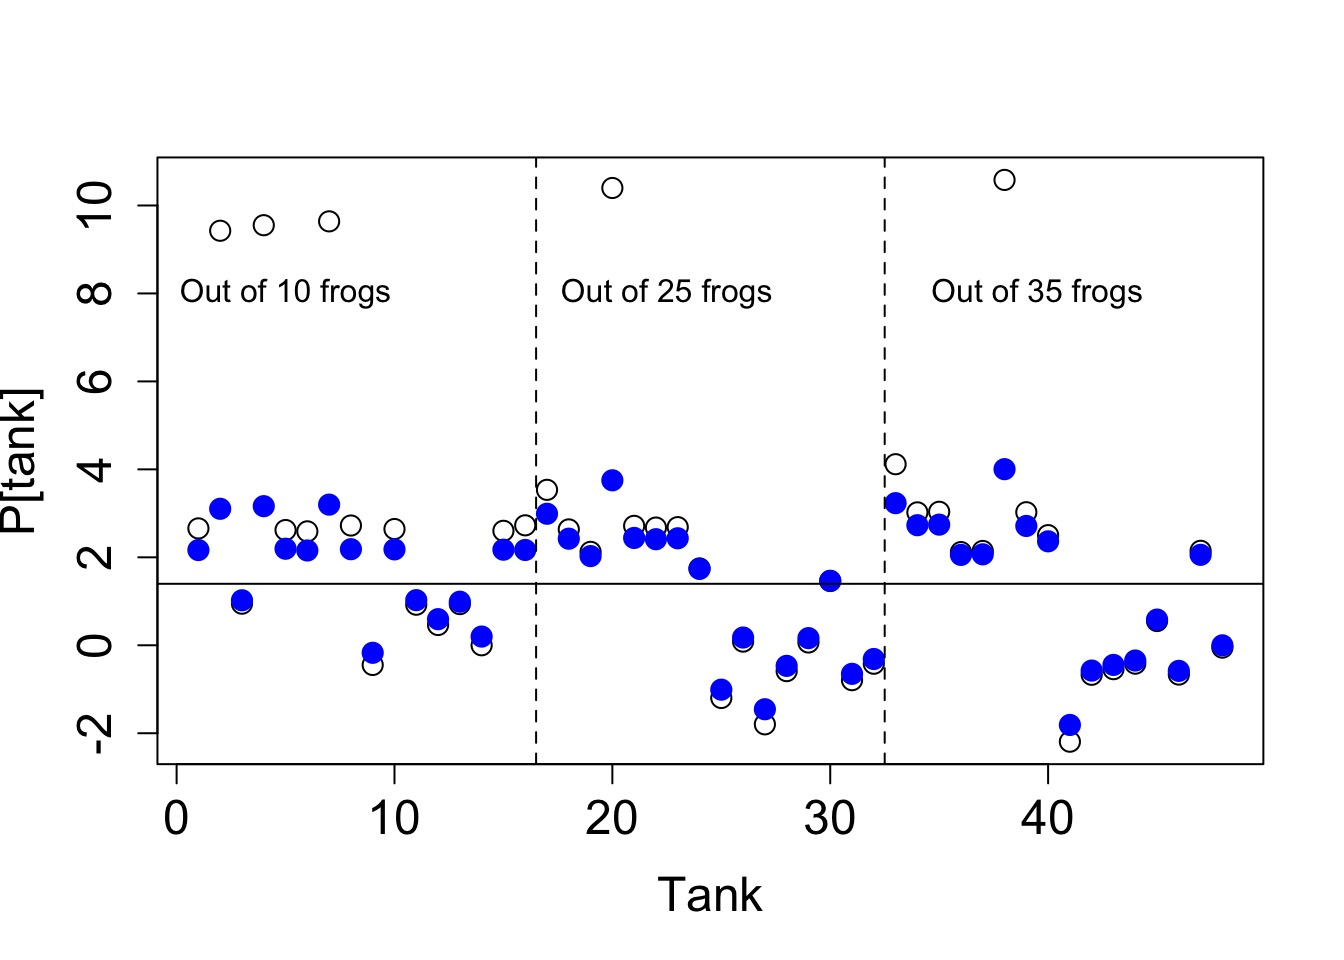
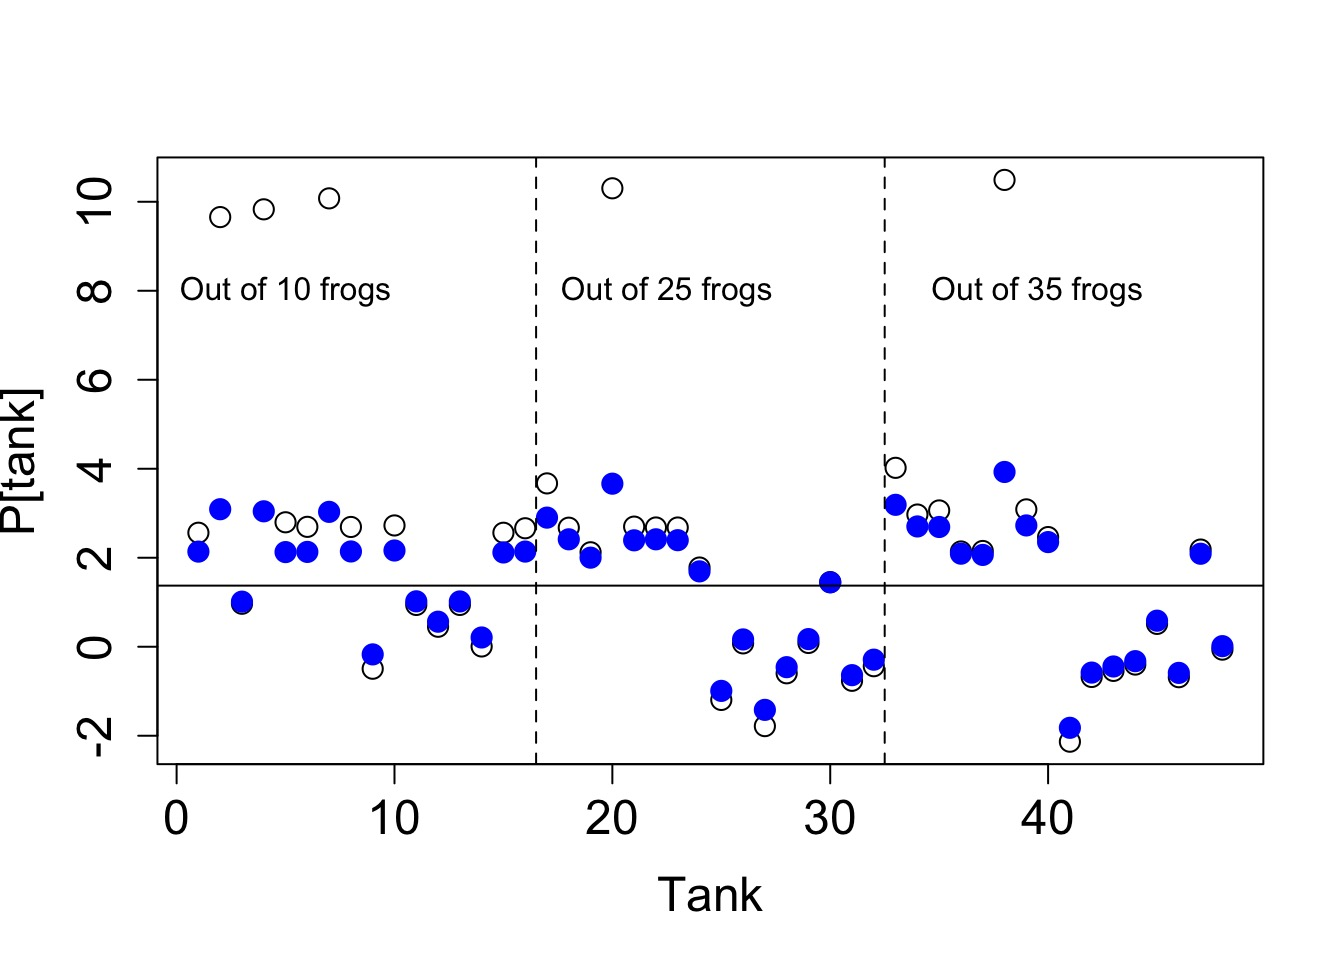
fixing some varying intercept typos

diff --git a/lectures/22_varying_intercept.html b/lectures/22_varying_intercept.html
@@ -290,7 +290,7 @@ fit &lt;-<span class="st"> </span><span class="kw">map2stan</span>(mod_partialpo
 <br />
 
 <div class="fragment">
-<span class="math display">\[p_j \sim dnorm(\widehat{p} , \sigma^2_{tank})\]</span>
+<span class="math display">\[p_j \sim dnorm(\widehat{p} , \sigma_{tank})\]</span>
 </div>
 </section>
 <section id="the-mathy-version" class="slide level2">
@@ -377,9 +377,16 @@ fit_fullpool 1372.0   1.0 360.9      0 25.87 35.12</code></pre>
 <li>Improved fit from partial pooling<br />
 <br />
 </li>
-<li>Big reduction in number of parameters</li>
+<li>Big reduction in number of parameters
+<ul>
+<li>From reducing paramter variance (remember pWAIC definition!)</li>
+</ul></li>
 </ul>
 </div>
+</section>
+<section id="reduced-parameter-variance" class="slide level2">
+<h1>Reduced Parameter Variance</h1>
+<p><img src="22_varying_intercept_files/figure-revealjs/show_p-1.jpeg" width="672" /></p>
 </section>
 <section id="fit-and-overdispersion" class="slide level2">
 <h1>Fit and Overdispersion</h1>
@@ -408,6 +415,39 @@ fit_fullpool 1372.0   1.0 360.9      0 25.87 35.12</code></pre>
 5   Lau Fiji       7400    high          33     5.0
 6  Trobriand       8000    high          19     4.0</code></pre>
 </section>
+<section id="a-typical-model" class="slide level2">
+<h1>A Typical Model</h1>
+<div class="sourceCode"><pre class="sourceCode r"><code class="sourceCode r">Kline$log_pop &lt;-<span class="st"> </span><span class="kw">log</span>(Kline$population)
+
+kline_mod &lt;-<span class="st"> </span><span class="kw">alist</span>(
+  <span class="co">#Likelihood</span>
+  total_tools ~<span class="st"> </span><span class="kw">dpois</span>(lambda),
+  
+  <span class="co">#DGP</span>
+  <span class="kw">log</span>(lambda) ~<span class="st"> </span>a +<span class="st"> </span>bp*log_pop,
+  
+  <span class="co">#Priors</span>
+  a ~<span class="st"> </span><span class="kw">dnorm</span>(<span class="dv">0</span>,<span class="dv">10</span>),
+  bp ~<span class="st"> </span><span class="kw">dnorm</span>(<span class="dv">0</span>,<span class="dv">1</span>)
+)
+
+kline_fit &lt;-<span class="st"> </span><span class="kw">map</span>(kline_mod, <span class="dt">data=</span>Kline)</code></pre></div>
+</section>
+<section id="overdispersion" class="slide level2">
+<h1>Overdispersion?</h1>
+<pre><code>[ 100 / 1000 ]
+[ 200 / 1000 ]
+[ 300 / 1000 ]
+[ 400 / 1000 ]
+[ 500 / 1000 ]
+[ 600 / 1000 ]
+[ 700 / 1000 ]
+[ 800 / 1000 ]
+[ 900 / 1000 ]
+[ 1000 / 1000 ]</code></pre>
+<p><img src="22_varying_intercept_files/figure-revealjs/show_overdisp-1.jpeg" width="672" /><br />
+Mild, but yes.</p>
+</section>
 <section id="an-overdispersed-model" class="slide level2">
 <h1>An Overdispersed Model</h1>
 <div class="sourceCode"><pre class="sourceCode r"><code class="sourceCode r">Kline$log_pop &lt;-<span class="st"> </span><span class="kw">log</span>(Kline$population)
@@ -429,10 +469,9 @@ kline_over_fit &lt;-<span class="st"> </span><span class="kw">map2stan</span>(kl
 </section>
 <section id="overdispersion-needed" class="slide level2">
 <h1>Overdispersion needed</h1>
-<p><img src="22_varying_intercept_files/figure-revealjs/kline_show-1.jpeg" width="672" /></p>
 </section>
-<section id="overdispersion-needed-1" class="slide level2">
-<h1>Overdispersion needed</h1>
+<section id="overdispersion-helps" class="slide level2">
+<h1>Overdispersion helps</h1>
 <p><img src="22_varying_intercept_files/figure-revealjs/kline_show2-1.jpeg" width="672" /></p>
 </section>
 <section id="what-about-modeling-random-variation-in-societies" class="slide level2">
